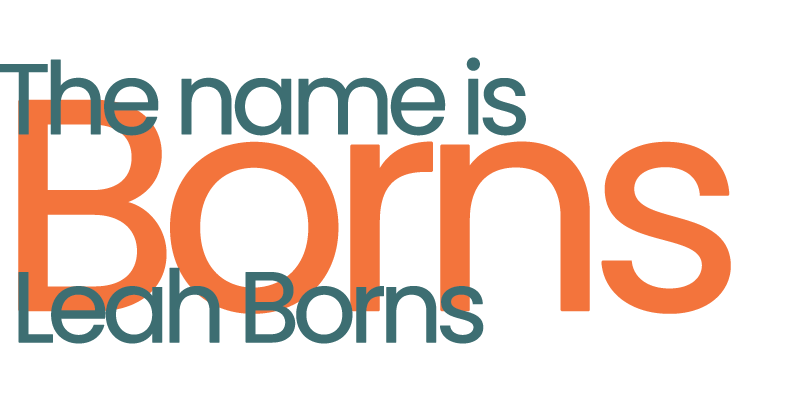
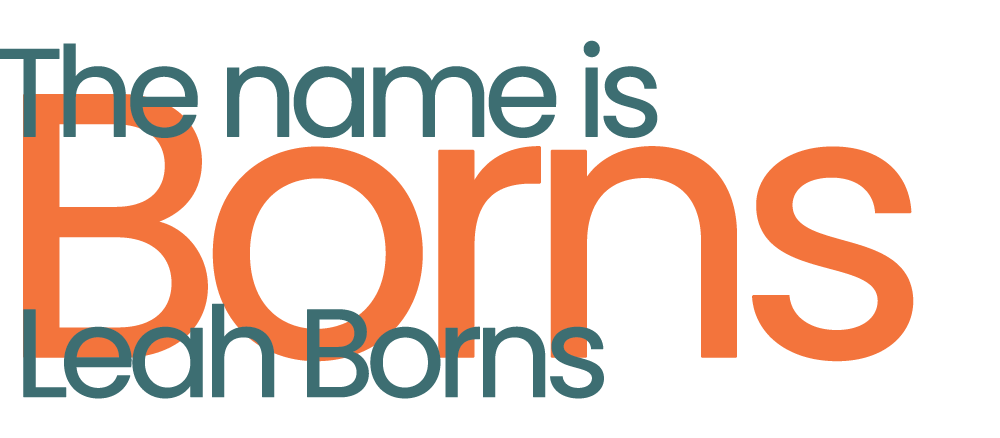
header slogan img update

diff --git a/style.css b/style.css
@@ -134,12 +134,12 @@ header {
 }
 
 div#header-title {
-
-    width: 90%;
+    width: 85%;
 }
 
 div#header-title img {
     max-width: 100%;
+
 }
 
 p.header-description {
